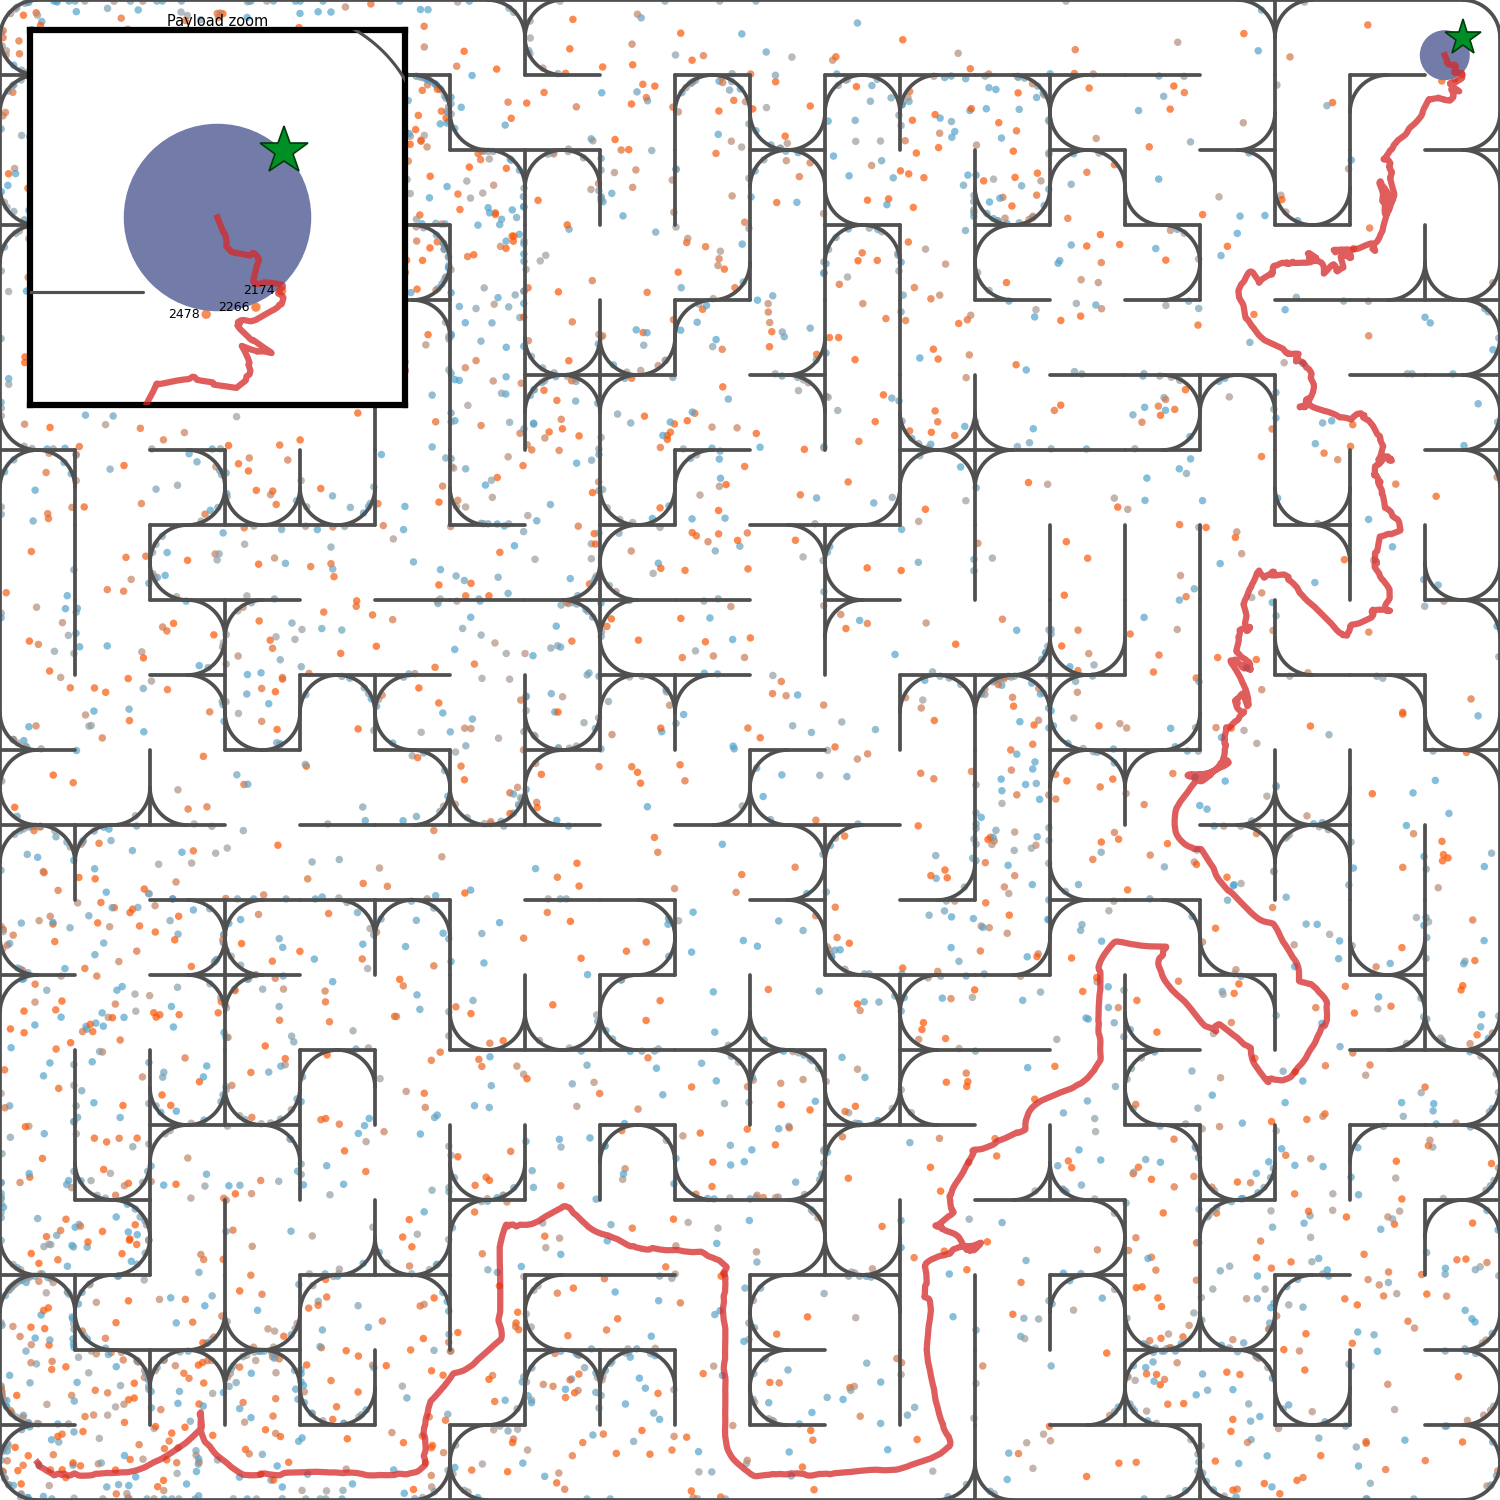
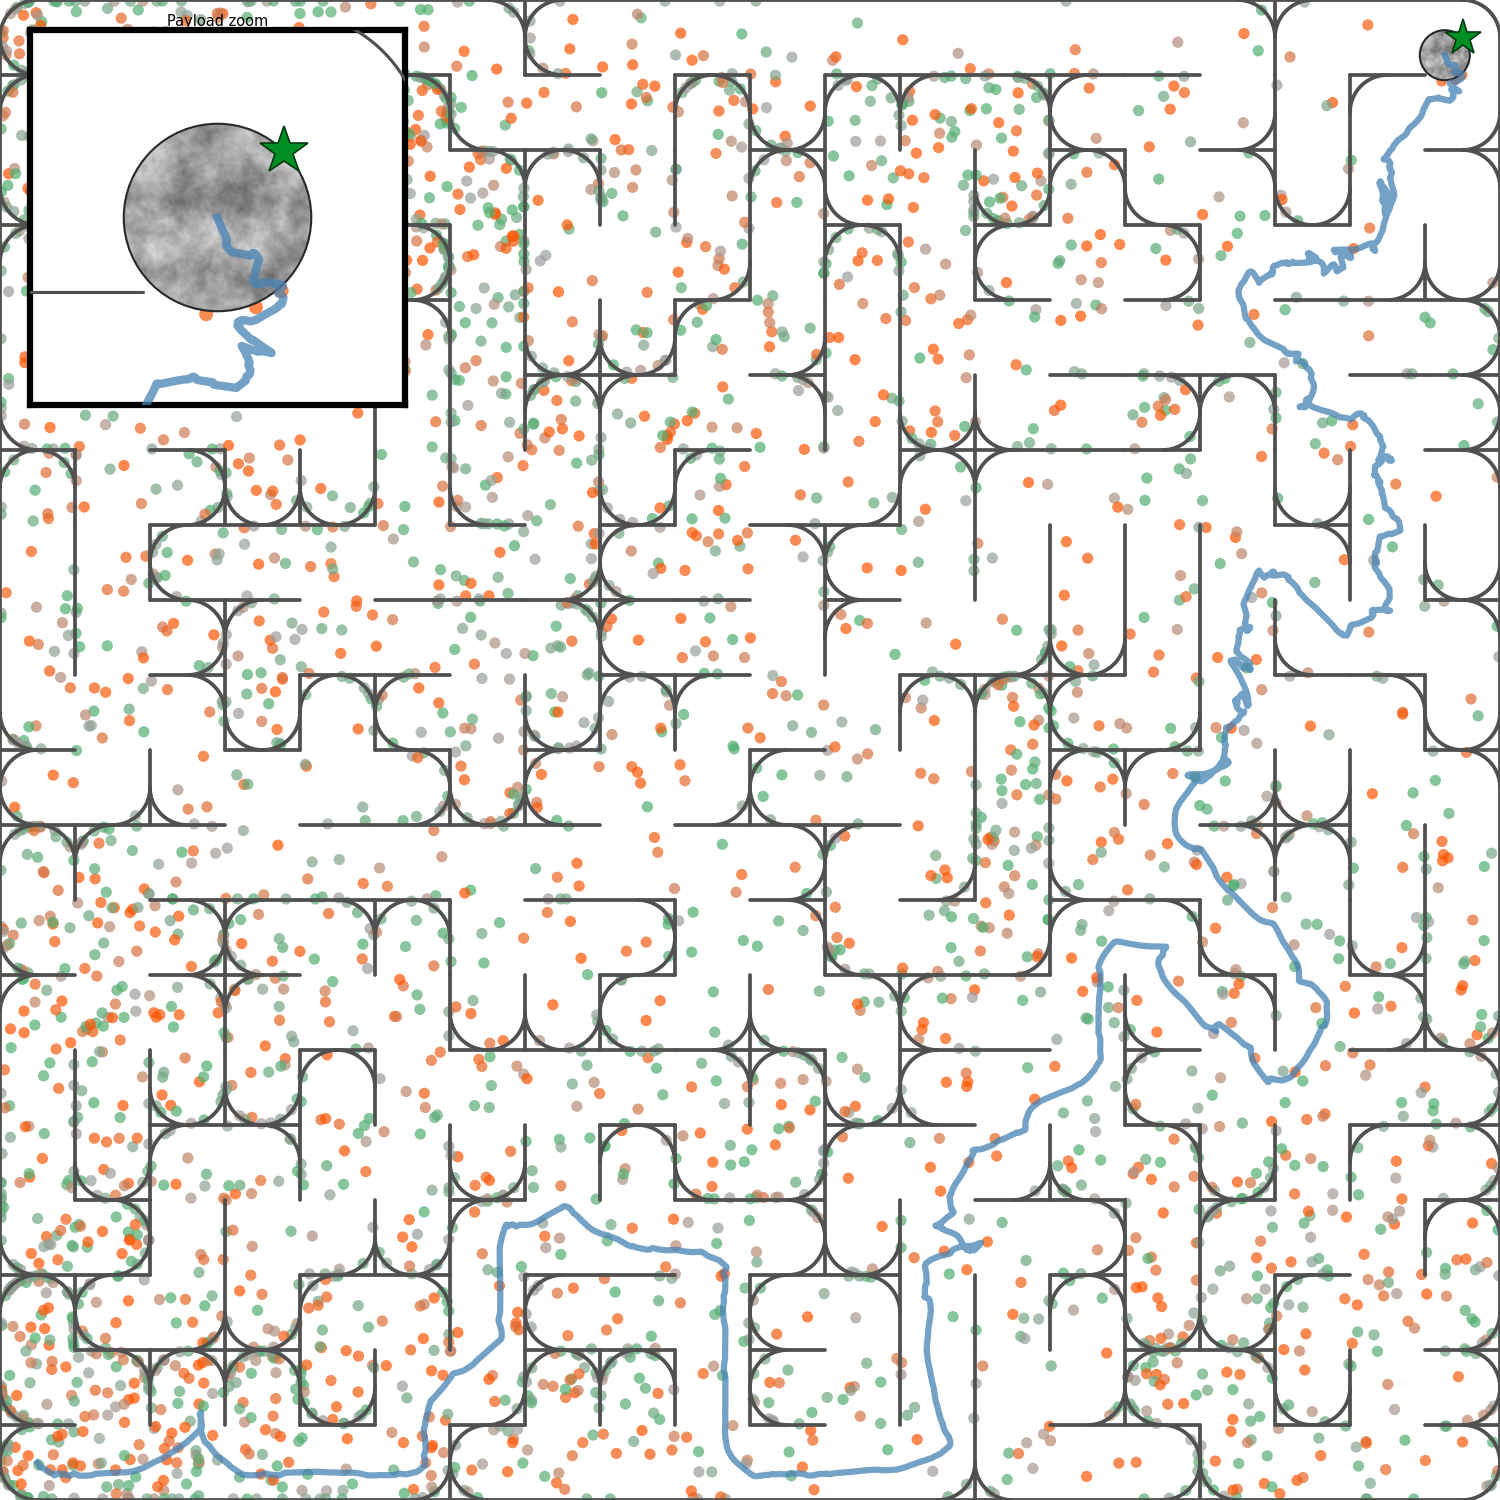
update 6a-c figure colors and look

diff --git a/figures/fig6/abc/render_final_frame.py b/figures/fig6/abc/render_final_frame.py
@@ -230,10 +230,10 @@ def curvity_color(c):
                 t * gray[2] + (1 - t) * 0.000)
     else:
         t = c       # 0 at c=0, 1 at c=+1
-        # #00AAFF = (0.0, 0.667, 1.0) — neon azure
+        # #00C040 = (0.0, 0.753, 0.25) — green
         return (gray[0] + t * (0.000 - gray[0]),
-                gray[1] + t * (0.667 - gray[1]),
-                gray[2] + t * (1.000 - gray[2]))
+                gray[1] + t * (0.753 - gray[1]),
+                gray[2] + t * (0.250 - gray[2]))
 
 
 def score_color(s):
@@ -243,7 +243,60 @@ def score_color(s):
 
 PAYLOAD_COLOR  = '#737BA8'
 GOAL_COLOR     = '#008F25'   # dark green
-PATH_COLOR     = '#D62728'   # red
+PATH_COLOR     = '#4682B4'   # steel blue
+
+# Payload texture: Perlin noise mapped from light to dark grey (as in fig1e)
+PAYLOAD_GRAY_LIGHT    = (0.86, 0.86, 0.86)
+PAYLOAD_GRAY_DARK     = (0.40, 0.40, 0.40)
+PAYLOAD_NOISE_CELLS   = 4
+PAYLOAD_NOISE_OCTAVES = 6
+PAYLOAD_NOISE_PERSIST = 0.65   # >0.5 gives higher octaves more weight (finer detail)
+PAYLOAD_NOISE_SIZE    = 768
+PAYLOAD_NOISE_SEED    = 7
+
+
+def perlin_noise(size, cells, octaves=1, seed=0, persistence=0.5):
+    """Fractal 2D Perlin noise, (size, size) array normalised to [0, 1]."""
+    rng = np.random.default_rng(seed)
+    out = np.zeros((size, size))
+    amp, total = 1.0, 0.0
+    for o in range(octaves):
+        n = cells * 2**o
+        ang = rng.uniform(0, 2 * np.pi, (n + 1, n + 1))
+        gx, gy = np.cos(ang), np.sin(ang)
+        t = np.linspace(0, n, size, endpoint=False)
+        xi = t.astype(int)
+        f = t - xi
+        u = f * f * f * (f * (f * 6 - 15) + 10)
+        X, Y = np.meshgrid(f, f)
+        U, V = np.meshgrid(u, u)
+        ix, iy = np.meshgrid(xi, xi)
+
+        def dot(dx, dy):
+            return gx[iy + dy, ix + dx] * (X - dx) + gy[iy + dy, ix + dx] * (Y - dy)
+
+        n00, n10, n01, n11 = dot(0, 0), dot(1, 0), dot(0, 1), dot(1, 1)
+        val = (n00 * (1 - U) + n10 * U) * (1 - V) + (n01 * (1 - U) + n11 * U) * V
+        out += amp * val
+        total += amp
+        amp *= persistence
+    out /= total
+    return (out - out.min()) / (out.max() - out.min())
+
+
+def draw_textured_payload(axis, cx, cy, radius):
+    """Draw the payload as a circle filled with a Perlin-noise grey texture."""
+    noise = perlin_noise(PAYLOAD_NOISE_SIZE, PAYLOAD_NOISE_CELLS, PAYLOAD_NOISE_OCTAVES,
+                         PAYLOAD_NOISE_SEED, PAYLOAD_NOISE_PERSIST)
+    lo = np.array(PAYLOAD_GRAY_LIGHT); hi = np.array(PAYLOAD_GRAY_DARK)
+    tex = lo + (hi - lo) * noise[..., None]
+    xlim, ylim = axis.get_xlim(), axis.get_ylim()
+    im = axis.imshow(tex, extent=(cx - radius, cx + radius, cy - radius, cy + radius),
+                     origin='lower', interpolation='bilinear', alpha=1.0, zorder=7)
+    im.set_clip_path(mpatches.Circle((cx, cy), radius=radius, transform=axis.transData))
+    axis.set_xlim(xlim); axis.set_ylim(ylim); axis.set_aspect('equal')
+    axis.add_patch(mpatches.Circle((cx, cy), radius=radius, facecolor='none',
+                                   edgecolor='#282828', linewidth=1.0, zorder=7.1))
 
 # Per-maze minimum visual particle size (set after box_size is known, inside __main__)
 # G10/G20 → G5 reference (box/300);  G30 → G10 reference (box/600)
@@ -347,27 +400,17 @@ if __name__ == "__main__":
         min_r = box_size / 400.0
     else:
         min_r = box_size / 300.0
-    display_radii = np.maximum(particle_radius, min_r)
+    # 1.5x larger particles for G5 and above (box_size > 120 → G > 2)
+    radius_scale = 1.5 if box_size > 120 else 1.0
+    display_radii = np.maximum(particle_radius, min_r) * radius_scale
     circles = [mpatches.Circle((x, y), radius=ri)
                for (x, y), ri in zip(last_positions, display_radii)]
     pc = PatchCollection(circles, facecolors=colors, alpha=0.7, linewidths=0, zorder=6)
     ax.add_collection(pc)
 
-    # For small maps (G2) label every particle in the main view
-    if box_size <= 120:
-        label_offset_main = float(display_radii[0]) * 1.4
-        for i in range(n_particles):
-            ax.text(last_positions[i, 0] - label_offset_main, last_positions[i, 1],
-                    str(i), fontsize=8, ha='right', va='center',
-                    color='black', zorder=9)
-
-    # Payload (final position) — solid gold disk
+    # Payload (final position) — Perlin-noise grey texture
     px_final, py_final = payload_trajectory[-1, 0], payload_trajectory[-1, 1]
-    ax.add_patch(mpatches.Circle(
-        (px_final, py_final), radius=payload_radius,
-        facecolor=PAYLOAD_COLOR, edgecolor='none',
-        alpha=1.0, zorder=7,
-    ))
+    draw_textured_payload(ax, px_final, py_final, payload_radius)
 
     # Goal
     ax.plot(goal_position[0], goal_position[1],
@@ -453,25 +496,13 @@ if __name__ == "__main__":
         # Particle positions relative to final payload centre — no periodic wrapping
         rel_x = last_positions[:, 0] - px_final
         rel_y = last_positions[:, 1] - py_final
-        inset_circles = [mpatches.Circle((dx, dy), radius=ri)
+        inset_circles = [mpatches.Circle((dx, dy), radius=ri * radius_scale)
                          for dx, dy, ri in zip(rel_x, rel_y, particle_radius)]
         inset_pc = PatchCollection(inset_circles, facecolors=colors, alpha=0.7, linewidths=0, zorder=6)
         inset_ax.add_collection(inset_pc)
 
-        # Particle ID labels — shown only for particles inside the visible zoom window
-        label_offset = r * 1.4   # nudge label to the left of each particle (true radius)
-        for i in range(n_particles):
-            if abs(rel_x[i]) < zoom_half and abs(rel_y[i]) < zoom_half:
-                inset_ax.text(rel_x[i] - label_offset, rel_y[i],
-                              str(i), fontsize=6, ha='right', va='center',
-                              color='black', zorder=9)
-
-        # Payload at origin — solid gold disk
-        inset_ax.add_patch(mpatches.Circle(
-            (0, 0), radius=payload_radius,
-            facecolor=PAYLOAD_COLOR, edgecolor='none',
-            alpha=1.0, zorder=7,
-        ))
+        # Payload at origin — Perlin-noise grey texture
+        draw_textured_payload(inset_ax, 0.0, 0.0, payload_radius)
 
         # Goal in payload-relative coordinates — no periodic wrapping
         gx_rel = goal_position[0] - px_final
@@ -499,7 +530,7 @@ if __name__ == "__main__":
         # Payload trajectory relative to final payload position — no periodic wrapping
         traj_x = payload_trajectory[:, 0] - px_final
         traj_y = payload_trajectory[:, 1] - py_final
-        inset_ax.plot(traj_x, traj_y, color=PATH_COLOR, linewidth=3.0, linestyle='-', alpha=0.75, zorder=8)
+        inset_ax.plot(traj_x, traj_y, color=PATH_COLOR, linewidth=4.0, linestyle='-', alpha=0.75, zorder=8)
 
     plt.savefig(OUTPUT_IMAGE, dpi=150, bbox_inches='tight', pad_inches=0)
     plt.close()
